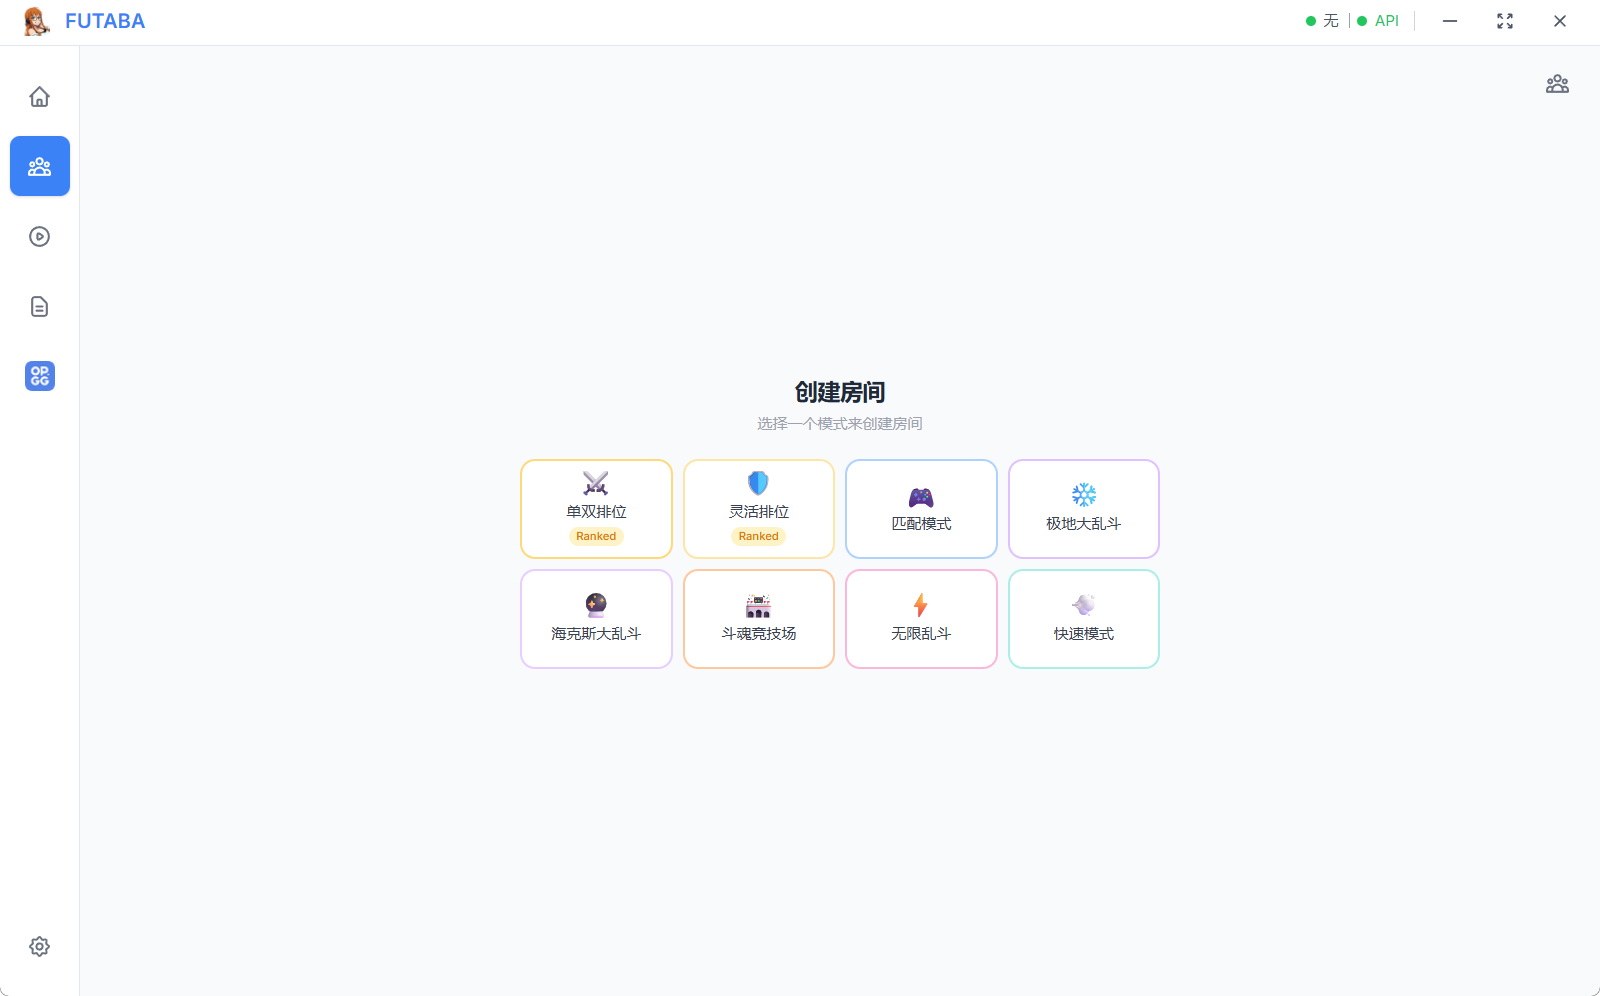
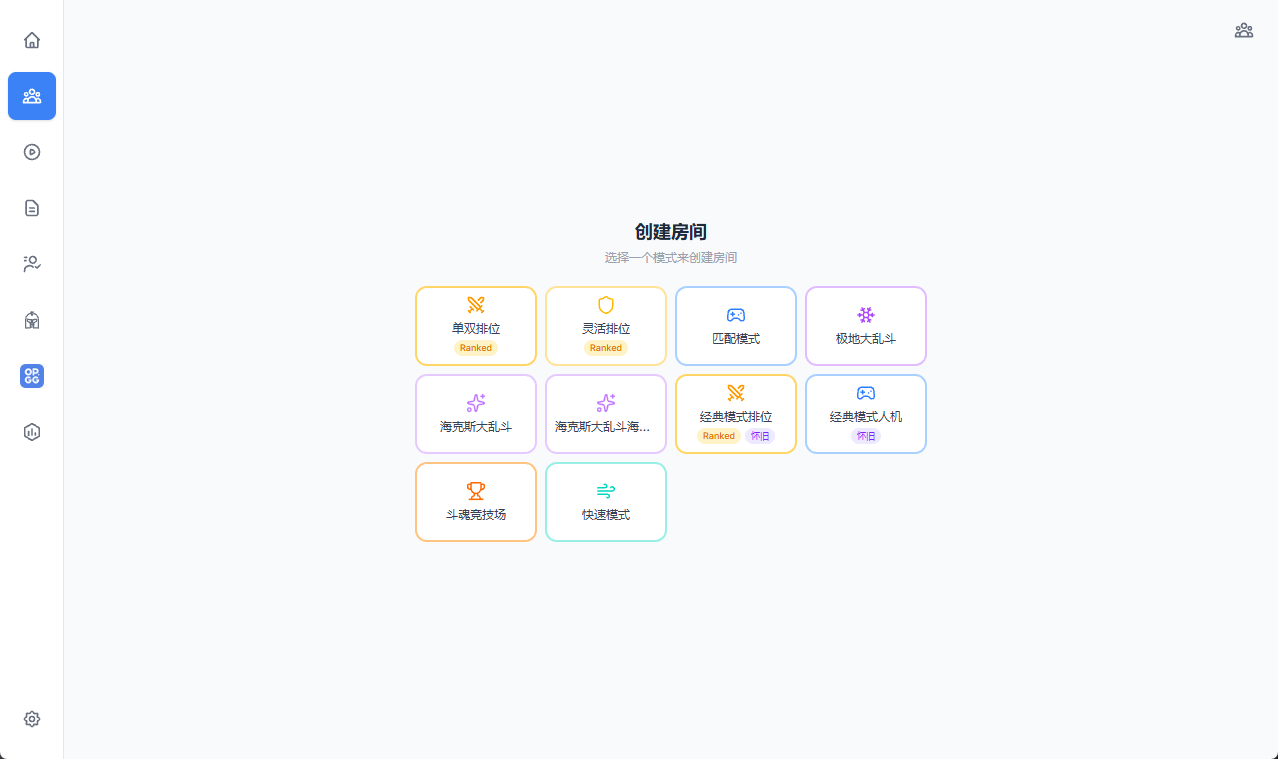
feat: 主程序展示区换用新截图，图片统一英文命名，OP.GG 与海斗数据配图换为独立小窗

diff --git a/js/main.js b/js/main.js
@@ -434,7 +434,7 @@
       'showcase.app.title': '主程序',
       'showcase.app.subtitle': '启动英雄联盟客户端后，使用 Futaba 接管所有其他功能',
       'showcase.opgg.title': 'OP.GG 集成',
-      'showcase.opgg.subtitle': '自动应用版本强势装备与符文，经典模式展示 Counter 对位推荐，大乱斗展示海克斯强化',
+      'showcase.opgg.subtitle': '自动应用版本强势装备与符文，经典模式展示 Counter 对位推荐；数据面板可开成独立小窗，海克斯大乱斗自动切到海斗数据',
       'showcase.mobile.title': '移动端',
       'showcase.mobile.subtitle': '局域网内扫码访问，接受对局、抢英雄、查出装，拿外卖上厕所也不耽误',
       // Highlights + Share showcase
@@ -522,7 +522,7 @@
       'showcase.app.title': 'Main App',
       'showcase.app.subtitle': 'Launch the LoL client, then let Futaba handle everything else',
       'showcase.opgg.title': 'OP.GG Integration',
-      'showcase.opgg.subtitle': 'Auto-apply meta builds and runes, show counter matchups in Classic mode, augments in ARAM',
+      'showcase.opgg.subtitle': 'Auto-apply meta builds and runes, show counter matchups in Classic mode; open the data panel as a standalone mini window, which switches to ARAM Mayhem data in Hextech ARAM',
       'showcase.mobile.title': 'Mobile',
       'showcase.mobile.subtitle': 'Scan to access on your local network — accept matches, pick champions, and check builds on the go',
       // Highlights + Share showcase
@@ -610,7 +610,7 @@
       'showcase.app.title': 'メインアプリ',
       'showcase.app.subtitle': 'LoLクライアント起動後、Futabaがすべての機能を引き継ぎます',
       'showcase.opgg.title': 'OP.GG 連携',
-      'showcase.opgg.subtitle': 'メタビルドとルーンを自動適用、クラシックモードでカウンター表示、ARAMでオーグメント表示',
+      'showcase.opgg.subtitle': 'メタビルドとルーンを自動適用、クラシックモードでカウンター表示。データパネルは独立ミニウィンドウでも開け、ヘクステック大乱闘では専用データに自動切替',
       'showcase.mobile.title': 'モバイル',
       'showcase.mobile.subtitle': 'LAN内でQRスキャン。対戦承認・チャンピオン選択・ビルド確認を外出先でも',
       // Highlights + Share showcase

diff --git a/index.html b/index.html
@@ -246,7 +246,7 @@
           </div>
           <div class="highlight-media">
             <div class="showcase-img highlight-media-compact">
-              <img src="./assets/opgg-detail.png" alt="OP.GG 英雄详情与海克斯强化" loading="lazy" />
+              <img src="./assets/mayhem-detail.png" alt="海斗数据英雄详情" loading="lazy" />
             </div>
           </div>
         </div>
@@ -474,10 +474,19 @@
           <img src="./assets/app-create-room.png" alt="创建房间" loading="lazy" />
         </div>
         <div class="showcase-img">
+          <img src="./assets/app-room.png" alt="房间" loading="lazy" />
+        </div>
+        <div class="showcase-img">
           <img src="./assets/app-match-history.png" alt="战绩查询" loading="lazy" />
         </div>
         <div class="showcase-img">
-          <img src="./assets/app-rank-pick.png" alt="排位 Ban/Pick" loading="lazy" />
+          <img src="./assets/app-mayhem-data.png" alt="海斗数据" loading="lazy" />
+        </div>
+        <div class="showcase-img">
+          <img src="./assets/app-player-list.png" alt="玩家红黑榜" loading="lazy" />
+        </div>
+        <div class="showcase-img">
+          <img src="./assets/app-favorite-champions.png" alt="常用英雄" loading="lazy" />
         </div>
       </div>
     </div>
@@ -513,7 +522,7 @@
       <div class="text-center mb-12 scroll-reveal">
         <h2 class="p5-section-title clean-section-title text-3xl sm:text-4xl mb-4" data-i18n="showcase.opgg.title">OP.GG 集成</h2>
         <p class="p5-subtitle clean-subtitle mt-6 text-base max-w-2xl mx-auto" data-i18n="showcase.opgg.subtitle">
-          自动应用版本强势装备与符文，经典模式展示 Counter 对位推荐，大乱斗展示海克斯强化
+          自动应用版本强势装备与符文，经典模式展示 Counter 对位推荐；数据面板可开成独立小窗，海克斯大乱斗自动切到海斗数据
         </p>
       </div>
       <div class="grid grid-cols-1 sm:grid-cols-2 lg:grid-cols-3 gap-6 scroll-reveal delay-1">
